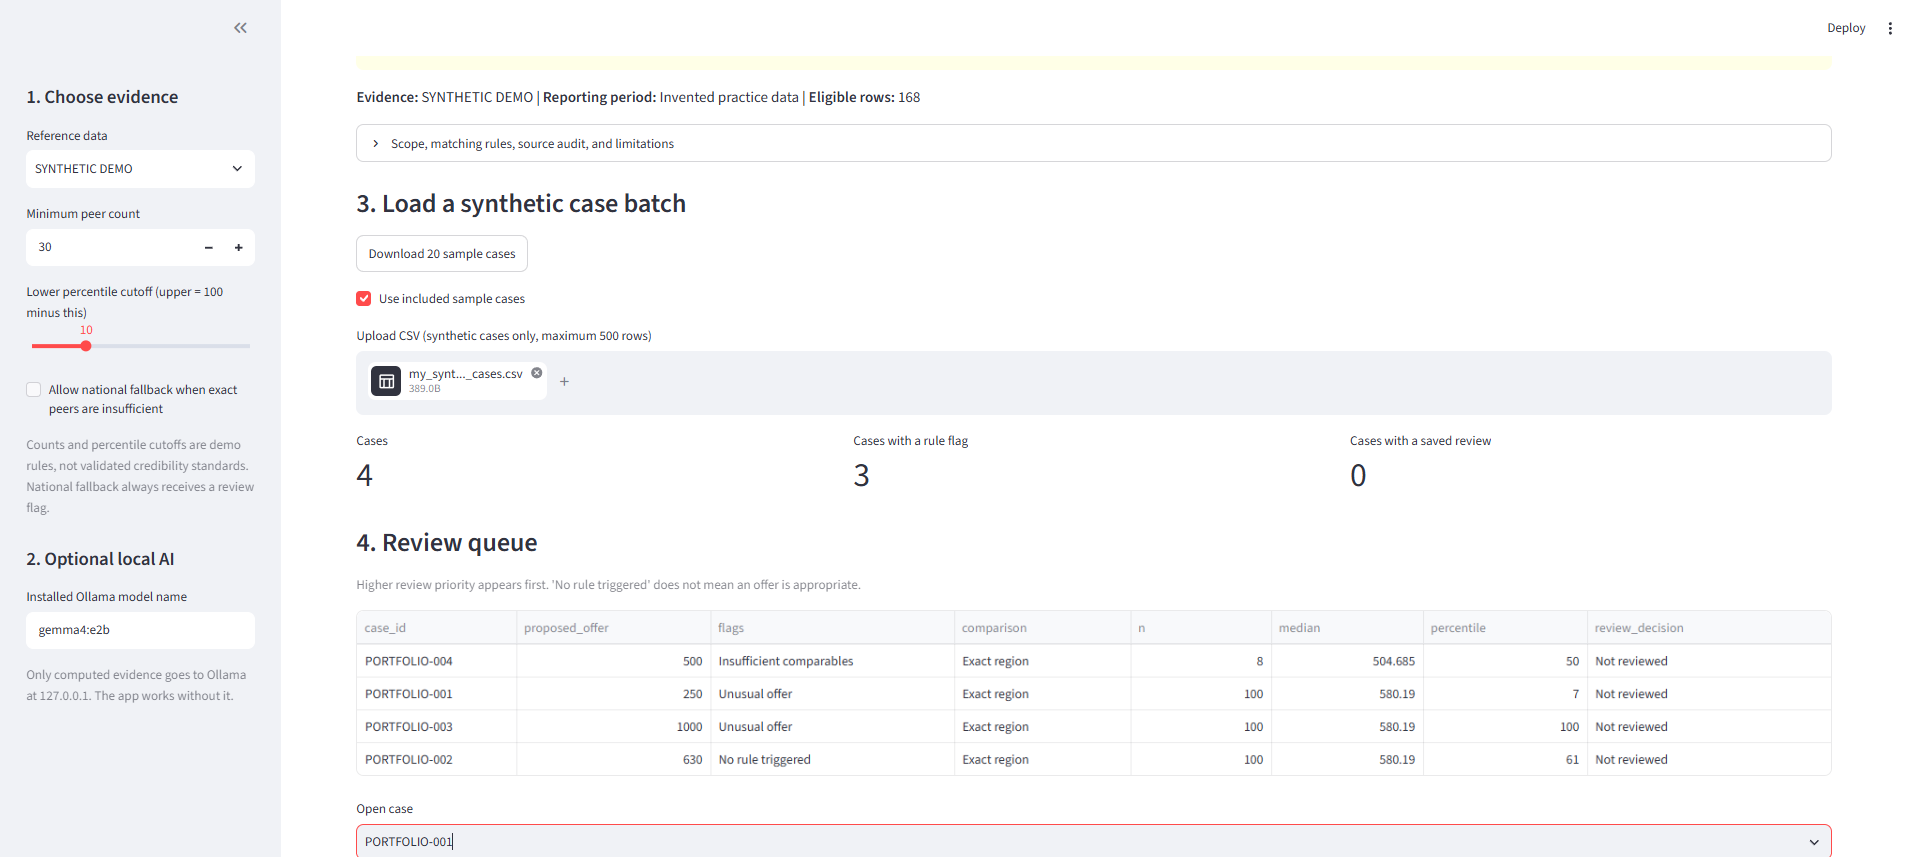
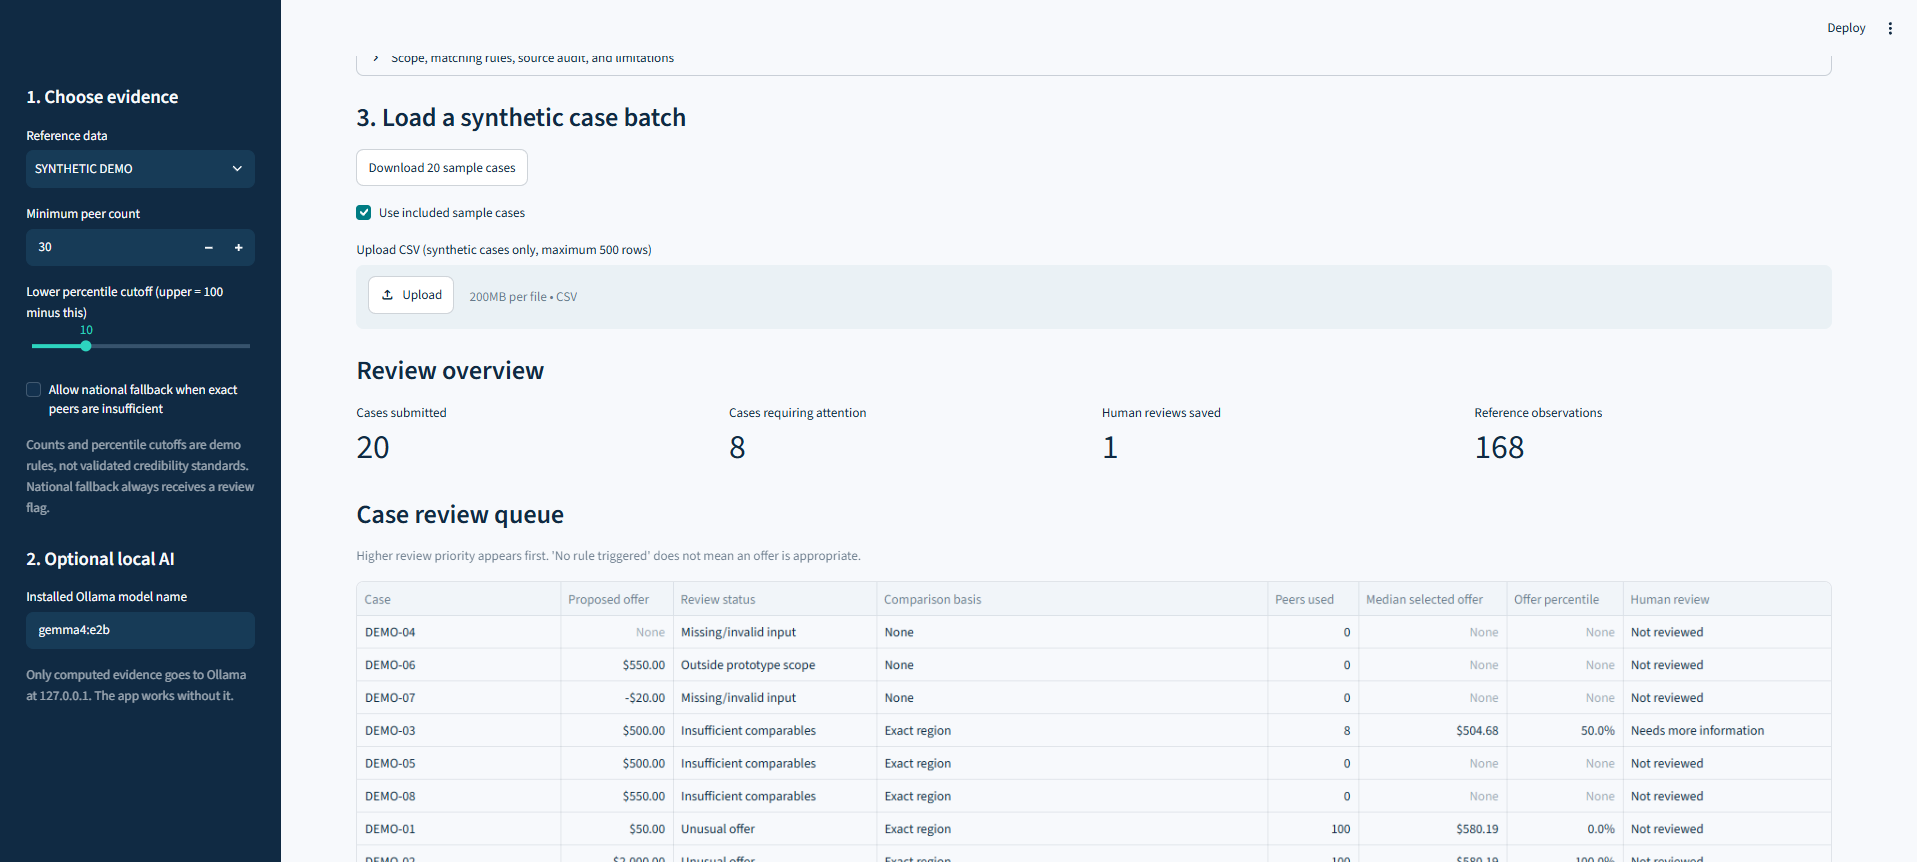
Polish dashboard formatting and visual design

diff --git a/app.py b/app.py
@@ -87,22 +87,247 @@ else:
     frame["review_decision"] = frame.case_id.map(latest.set_index("case_id").decision).fillna("Not reviewed")
 for numeric_column in ["proposed_offer", "n", "median", "percentile"]:
     frame[numeric_column] = pd.to_numeric(frame[numeric_column], errors="coerce")
-left, mid, right = st.columns(3)
-left.metric("Cases", len(frame))
-mid.metric("Cases with a rule flag", int(frame["flags"].ne("No rule triggered").sum()))
-right.metric("Cases with a saved review", len(latest))
-st.subheader("4. Review queue")
+st.markdown("### Review overview")
+
+overview_1, overview_2, overview_3, overview_4 = st.columns(4)
+
+overview_1.metric(
+    "Cases submitted",
+    f"{len(frame):,}",
+)
+
+overview_2.metric(
+    "Cases requiring attention",
+    f"{int(frame['flags'].ne('No rule triggered').sum()):,}",
+)
+
+overview_3.metric(
+    "Human reviews saved",
+    f"{len(latest):,}",
+)
+
+overview_4.metric(
+    "Reference observations",
+    f"{len(peers):,}",
+)
+st.subheader("Case review queue")
 st.caption("Higher review priority appears first. 'No rule triggered' does not mean an offer is appropriate.")
-st.dataframe(frame[["case_id", "proposed_offer", "flags", "comparison", "n", "median", "percentile", "review_decision"]], hide_index=True, width="stretch")
+queue_columns = [
+    "case_id",
+    "proposed_offer",
+    "flags",
+    "comparison",
+    "n",
+    "median",
+    "percentile",
+    "review_decision",
+]
+
+st.dataframe(
+    frame[queue_columns],
+    hide_index=True,
+    width="stretch",
+    column_config={
+        "case_id": st.column_config.TextColumn(
+            "Case",
+            help="Synthetic, non-identifying case label",
+            width="medium",
+        ),
+        "proposed_offer": st.column_config.NumberColumn(
+            "Proposed offer",
+            help="Invented offer amount supplied in the synthetic case file",
+            format="dollar",
+        ),
+        "flags": st.column_config.TextColumn(
+            "Review status",
+            help="Deterministic rule-based review flag",
+            width="medium",
+        ),
+        "comparison": st.column_config.TextColumn(
+            "Comparison basis",
+            help="Exact-region benchmark or disclosed national fallback",
+            width="large",
+        ),
+        "n": st.column_config.NumberColumn(
+            "Peers used",
+            help="Number of historical observations used",
+            format="localized",
+        ),
+        "median": st.column_config.NumberColumn(
+            "Median selected offer",
+            help="Median historical selected offer in the comparison group",
+            format="dollar",
+        ),
+        "percentile": st.column_config.NumberColumn(
+            "Offer percentile",
+            help="Midrank percentile of the proposed offer",
+            format="%.1f%%",
+        ),
+        "review_decision": st.column_config.TextColumn(
+            "Human review",
+            width="medium",
+        ),
+    },
+)
 
 selected_id = st.selectbox("Open case", frame.case_id.tolist())
 result = next(r for r in results if r["case_id"] == selected_id)
 st.subheader(f"Case {selected_id}")
-st.write(f"**Flags:** {result['flags']} | **Comparison:** {result['comparison']}")
+flag_text = result["flags"]
+
+if flag_text in {"Missing/invalid input", "Outside prototype scope"}:
+    st.error(f"Action required: {flag_text}")
+elif "Insufficient comparables" in flag_text:
+    st.warning(f"Review limitation: {flag_text}")
+elif "Geography broadened" in flag_text:
+    st.warning(f"Broader comparison used: {flag_text}")
+elif "Unusual offer" in flag_text:
+    st.warning(f"Offer outside the configured benchmark range: {flag_text}")
+else:
+    st.success(
+        "No deterministic review rule triggered. "
+        "This does not establish that the offer is appropriate."
+    )
+
+st.caption(f"Comparison basis: {result['comparison']}")
 st.write(result["note"])
-detail = pd.DataFrame({"Metric": ["Exact-region count", "Used count", f"P{tail} selected offer", "Median selected offer", f"P{100-tail} selected offer", "Offer percentile (midrank)", "Provider offer median", "Provider valid count", "Payer offer median", "Payer valid count"],
-    "Value": [str(result[k]) if result[k] is not None else "Unavailable" for k in ["exact_n", "n", "p_low", "median", "p_high", "percentile", "provider_median", "provider_n", "payer_median", "payer_n"]]})
-st.dataframe(detail, hide_index=True)
+
+def numeric_value(value):
+    """Return a usable number or None for blank, missing, or invalid values."""
+    if value is None:
+        return None
+
+    if isinstance(value, str) and not value.strip():
+        return None
+
+    try:
+        number = float(value)
+    except (TypeError, ValueError):
+        return None
+
+    if pd.isna(number):
+        return None
+
+    return number
+
+
+def format_currency(value):
+    number = numeric_value(value)
+
+    if number is None:
+        return "Unavailable"
+
+    return f"${number:,.2f}"
+
+
+def format_count(value):
+    number = numeric_value(value)
+
+    if number is None:
+        return "Unavailable"
+
+    return f"{int(number):,}"
+
+
+def format_percentile(value):
+    number = numeric_value(value)
+
+    if number is None:
+        return "Unavailable"
+
+    return f"{number:.1f}%"
+
+st.markdown("#### Case summary")
+
+summary_1, summary_2, summary_3, summary_4 = st.columns(4)
+
+summary_1.metric(
+    "Proposed offer",
+    format_currency(result["proposed_offer"]),
+)
+summary_2.metric(
+    "Historical peers used",
+    format_count(result["n"]),
+)
+summary_3.metric(
+    "Median selected offer",
+    format_currency(result["median"]),
+)
+summary_4.metric(
+    "Offer percentile",
+    format_percentile(result["percentile"]),
+)
+percentile_value = numeric_value(result["percentile"])
+
+if percentile_value is not None:
+    st.markdown("#### Position within the historical distribution")
+
+    progress_value = min(max(percentile_value / 100, 0.0), 1.0)
+
+    st.progress(
+        progress_value,
+        text=f"Historical selected-offer percentile: {percentile_value:.1f}%",
+    )
+
+    st.caption(
+        f"The configured descriptive review band is P{tail} through "
+        f"P{100-tail}. Values outside that band receive an unusual-offer flag "
+        "only when the minimum peer-count requirement is met."
+    )
+else:
+    st.info(
+        "Offer position is unavailable because a valid benchmark and proposed "
+        "offer are required."
+    )
+
+st.markdown("#### Historical benchmark range")
+st.markdown("#### Historical benchmark range")
+
+range_1, range_2, range_3 = st.columns(3)
+
+range_1.metric(
+    f"P{tail} selected offer",
+    format_currency(result["p_low"]),
+)
+range_2.metric(
+    "Median selected offer",
+    format_currency(result["median"]),
+)
+range_3.metric(
+    f"P{100-tail} selected offer",
+    format_currency(result["p_high"]),
+)
+
+with st.expander("Additional comparison evidence"):
+    additional_evidence = pd.DataFrame(
+        {
+            "Metric": [
+                "Comparison basis",
+                "Exact-region observations",
+                "Total observations used",
+                "Provider offer median",
+                "Provider valid observations",
+                "Payer offer median",
+                "Payer valid observations",
+            ],
+            "Value": [
+                result["comparison"],
+                format_count(result["exact_n"]),
+                format_count(result["n"]),
+                format_currency(result["provider_median"]),
+                format_count(result["provider_n"]),
+                format_currency(result["payer_median"]),
+                format_count(result["payer_n"]),
+            ],
+        }
+    )
+
+    st.dataframe(
+        additional_evidence,
+        hide_index=True,
+        width="stretch",
+    )
+
 if result["n"] < minimum:
     st.warning("Insufficient comparables: descriptive numbers may be shown, but no unusual-offer classification is made.")
 with st.expander("Exact input and computed evidence"):
